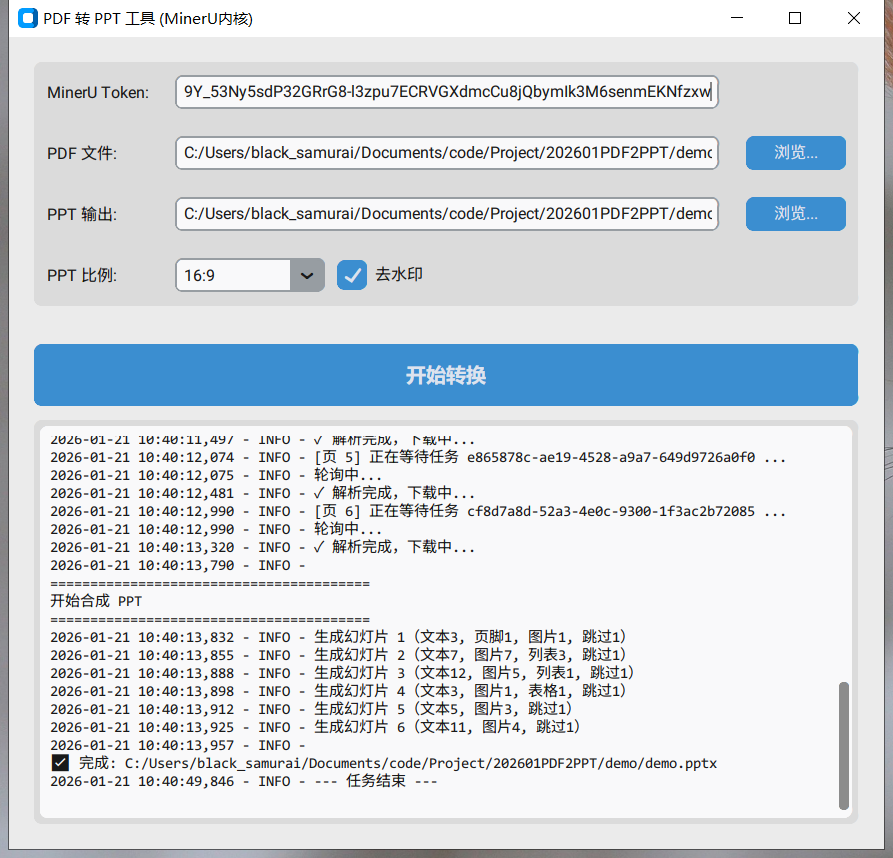
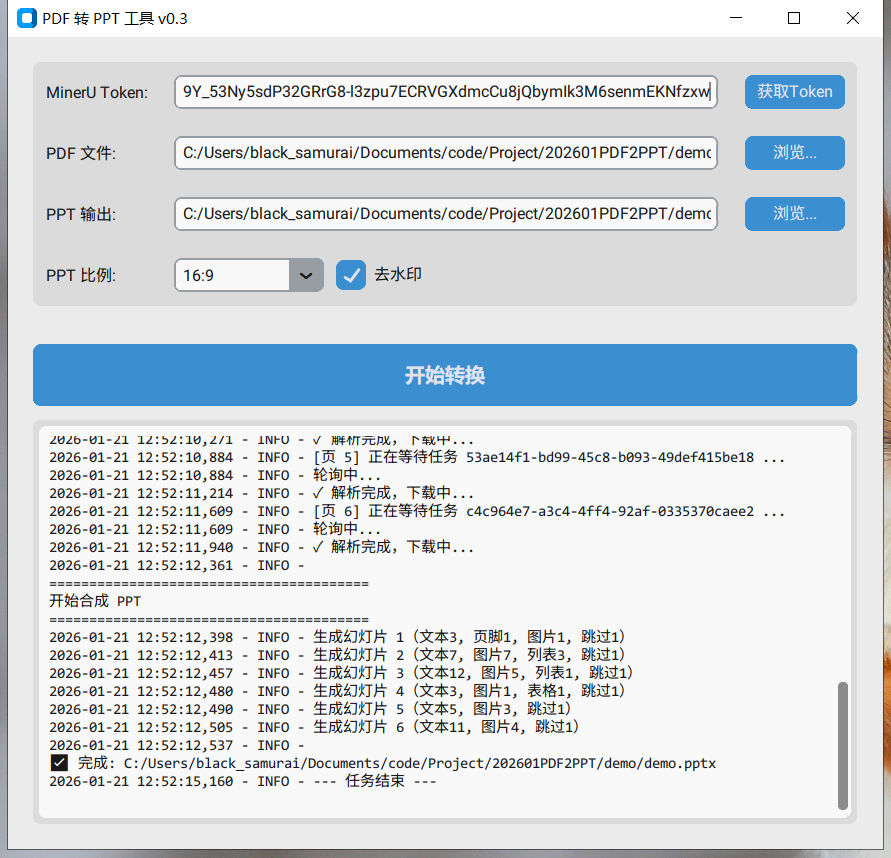
feat(ui): 添加获取Token按钮并更新应用标题版本号
在输入框架中添加了获取Token的按钮，用户可以直接点击打开MinerU API token获取页面。
同时将应用标题从"PDF 转 PPT 工具 (MinerU内核)"更新为"PDF 转 PPT 工具 v0.3"以反映版本信息。
此外，对打包配置文件进行了优化调整。

diff --git a/app.py b/app.py
@@ -1,4 +1,5 @@
 # -*- coding: utf-8 -*-
+import webbrowser
 import customtkinter as ctk
 from tkinter import filedialog, messagebox
 import threading
@@ -45,7 +46,7 @@ class App(ctk.CTk):
     def __init__(self):
         super().__init__()
 
-        self.title("PDF 转 PPT 工具 (MinerU内核)")
+        self.title("PDF 转 PPT 工具 v0.3")
         self.geometry("700x650")
 
         # Configure grid layout
@@ -64,7 +65,8 @@ class App(ctk.CTk):
         self.label_token.grid(row=0, column=0, padx=10, pady=10, sticky="w")
         self.entry_token = ctk.CTkEntry(self.input_frame, placeholder_text="请输入您的 MinerU Token")
         self.entry_token.grid(row=0, column=1, padx=10, pady=10, sticky="ew")
-        # GUI 模式下默认为空，不从 config 读取（仅命令行模式使用 config.py）
+        self.btn_token_url = ctk.CTkButton(self.input_frame, text="获取Token", width=80, command=self.open_token_url)
+        self.btn_token_url.grid(row=0, column=2, padx=10, pady=10)
 
         # 1.2 PDF 文件选择
         self.label_pdf = ctk.CTkLabel(self.input_frame, text="PDF 文件:", anchor="w")
@@ -126,6 +128,9 @@ class App(ctk.CTk):
 
         # 配置日志重定向
         self.setup_logging()
+
+    def open_token_url(self):
+        webbrowser.open("https://mineru.net/apiManage/token")
 
     def setup_logging(self):
         # 创建自定义 Handler
